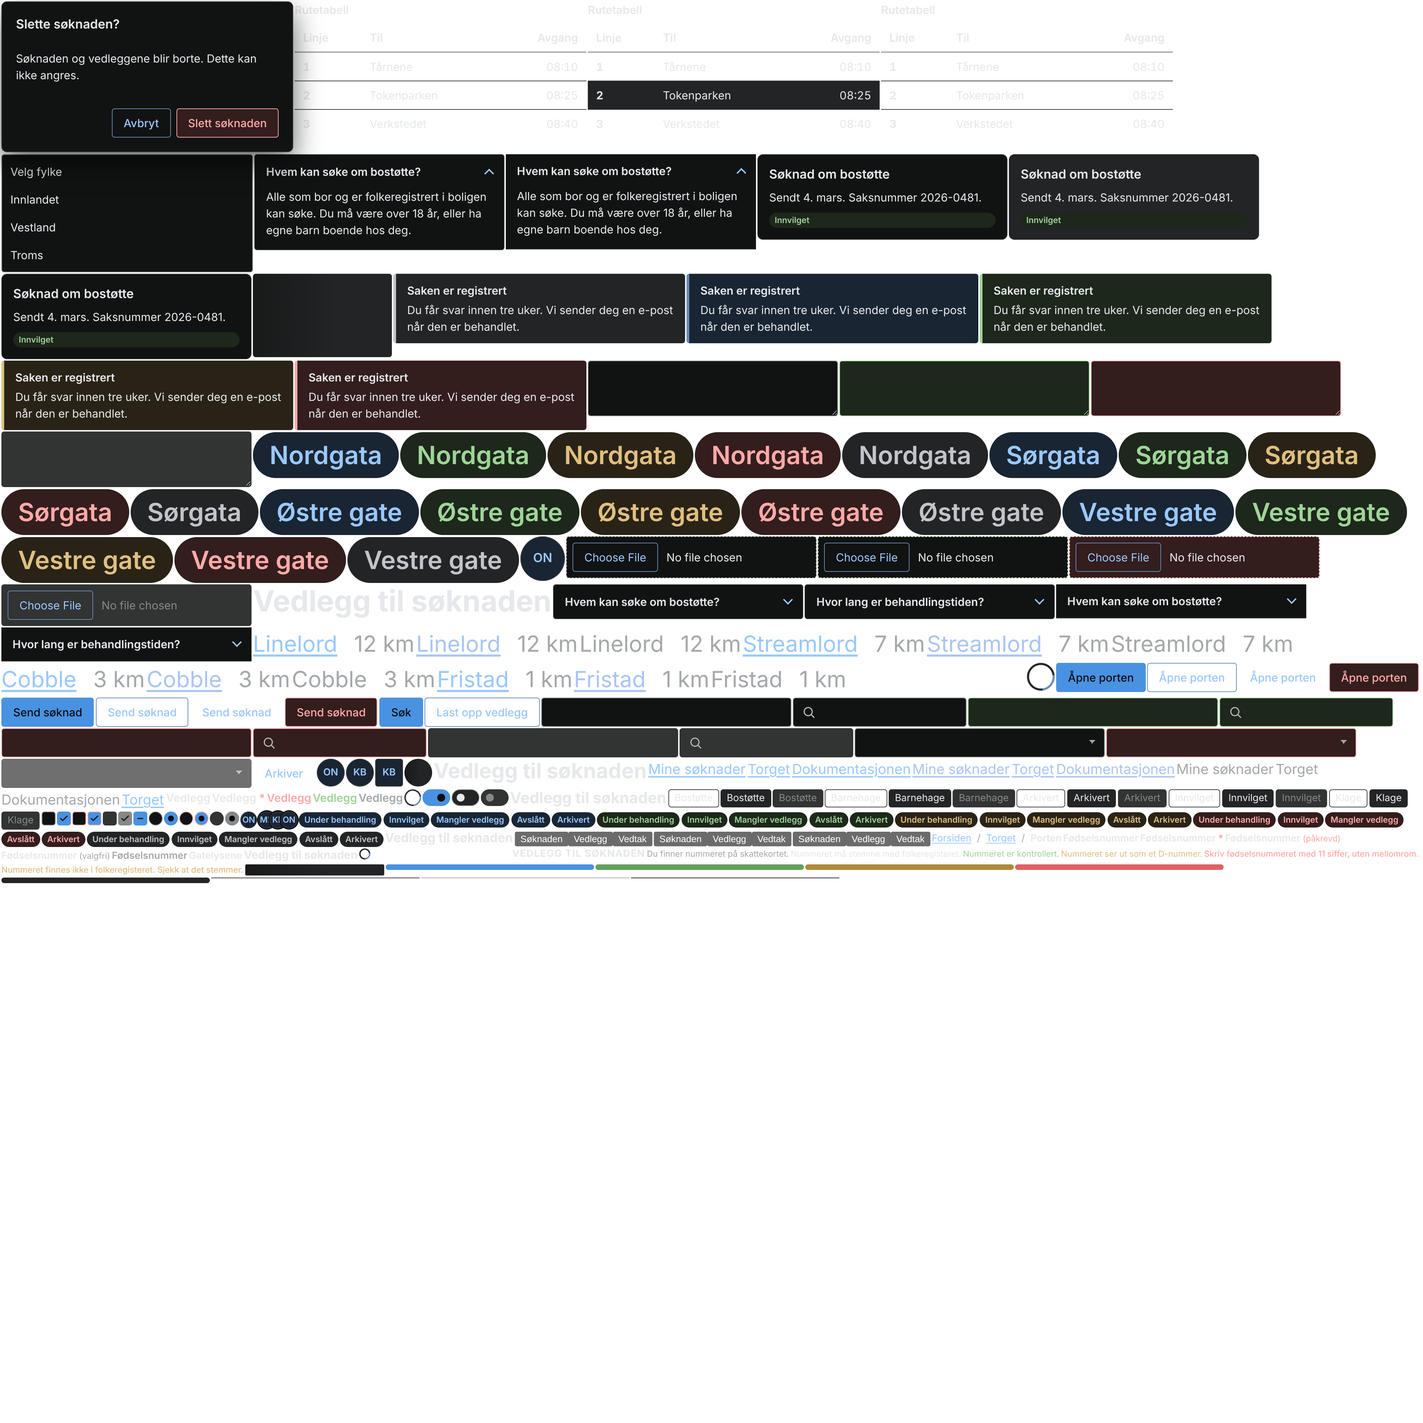
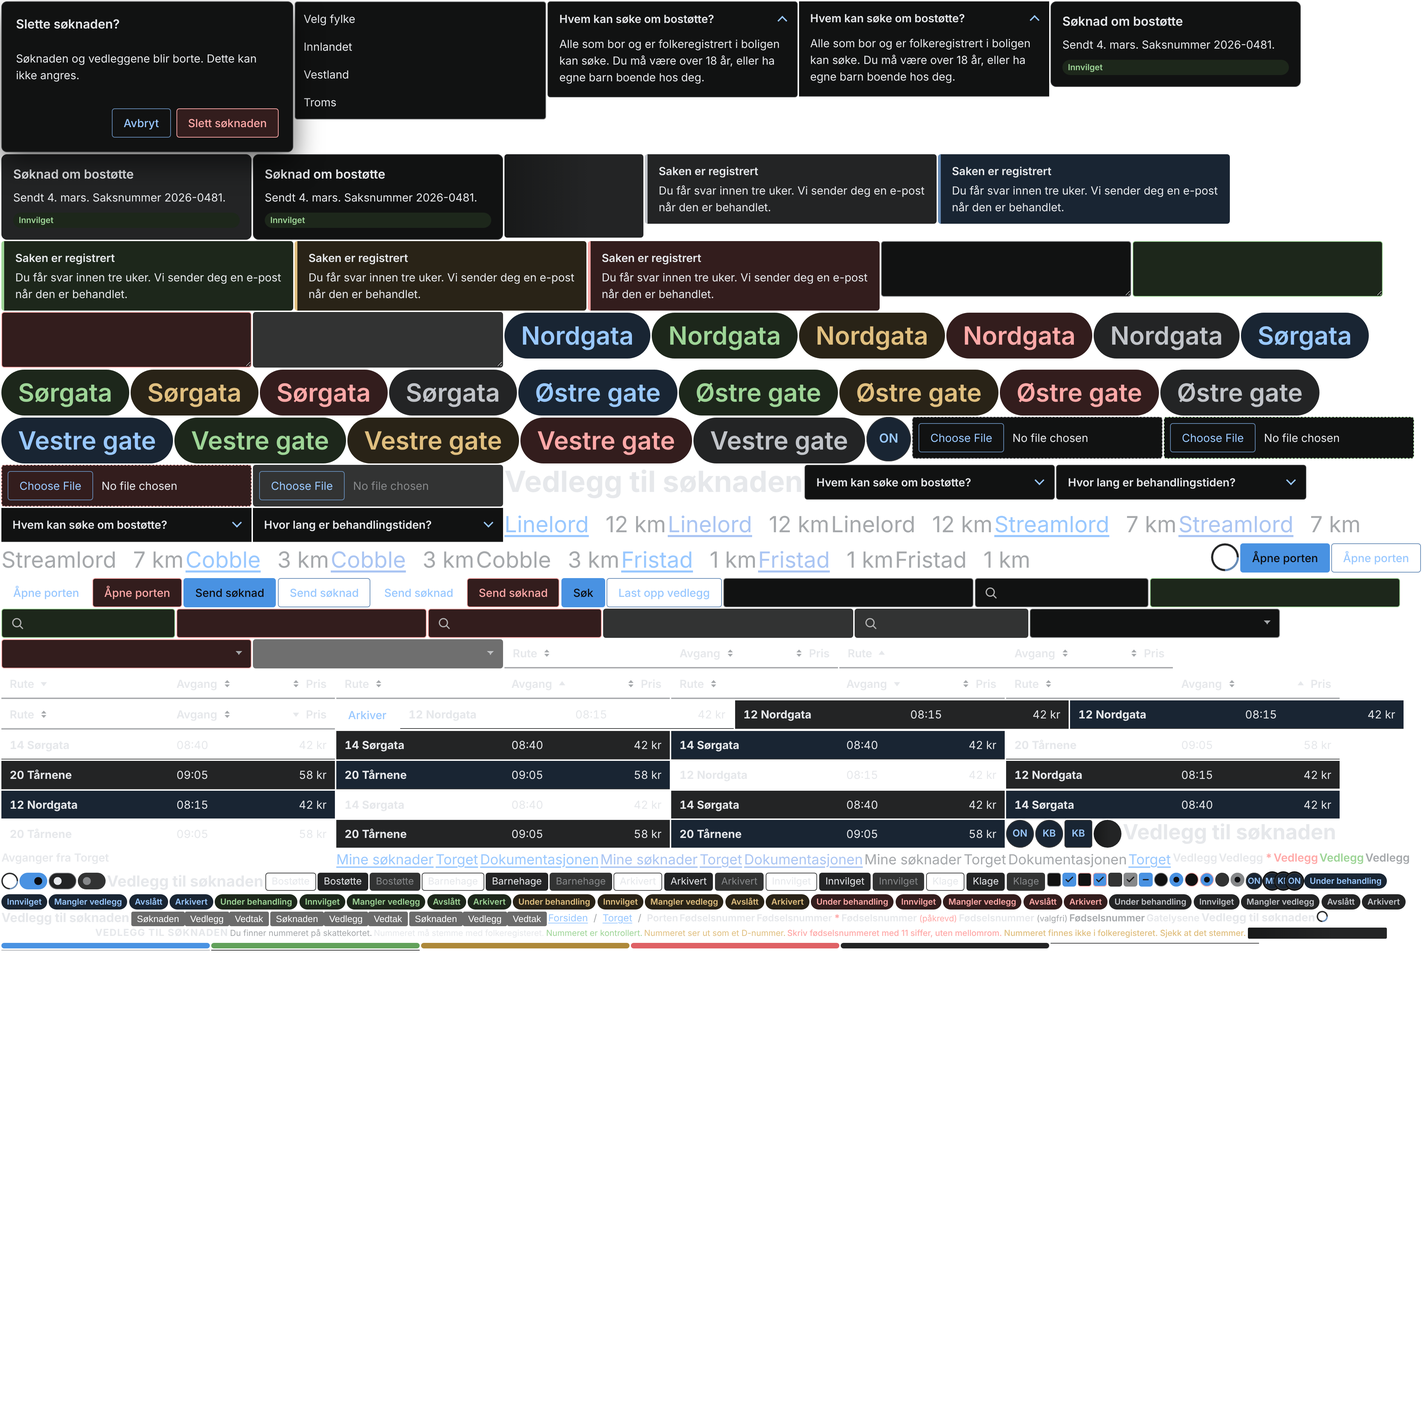
Rutetabellen som sorterbar oppslagsplate ved busskuret, og takrennene som stakk ut av gavlhusene
Tabellen er nå ei egen plate på to stolper øst for busskuret, satt
sammen av ark fra Fristils CSS: bildeteksten, overskriftsraden per
sortering (aria-sort-pilene) og hver rad i vanlig, stripet og
hover-bakgrunn. F på en kolonneoverskrift sorterer stigende og så
synkende, og radene poseres i sortert rekkefølge. Hoverable-varianten
markerer raden du sikter på. Skeleton-huset er flyttet bak skuret så
stillaset ikke går inn i tabellen. Takrennene på gavlhusene lå rotert
feil vei og stakk ut bak husene.

Claude-Session: https://claude.ai/code/session_013pndpdKC7BySq2zRusj7Wv

diff --git a/web/main.js b/web/main.js
@@ -116,7 +116,7 @@ const VARIANTS = {
   table: [
     { name: "default", note: "Standard." },
     { name: "striped", note: 'data-variant="striped"' },
-    { name: "hoverable", note: "data-hoverable, vist med raden under musa markert." },
+    { name: "hoverable", note: "data-hoverable, vist med raden du sikter på markert." },
   ],
   link: [
     { name: "default", note: "Standard." },

diff --git a/src/domain/installations/table.rs b/src/domain/installations/table.rs
@@ -1,28 +1,69 @@
-//! `.fs-table`: rutetabellen i busskuret ved Østre gate. R bytter variant
-//! (vanlig, stripet, hoverable med raden under musa markert).
+//! `.fs-table`: rutetabellen på oppslagsplata ved busskuret ved Østre
+//! gate. Tabellen er satt sammen av ark fra Fristils CSS: bildeteksten,
+//! overskriftsraden (ett ark per sortering, med pila fra `aria-sort`) og
+//! radene (ett ark per rad og bakgrunn). F på en kolonneoverskrift
+//! sorterer stigende, F igjen synkende; radene flytter seg etter. R bytter
+//! variant (vanlig, stripet, hoverable med raden du sikter på markert).
 
 use super::signs::{self, Box2};
-use super::{Component, Env, Installation, PX};
-use crate::domain::city::{at, Builder};
-use crate::domain::geometry::{flag, Mat, Mesh};
+use super::{Action, Component, Env, Installation, PX};
+use crate::domain::city::{at, Builder, IRON, OAK};
+use crate::domain::geometry::{Layer, Mat, Mesh};
 use crate::domain::palette::slot;
-use crate::domain::scene::PALETTE;
-use crate::domain::tokens::Tokens;
 use glam::{Affine3A, Vec3};
 
 pub const VARIANTS: [&str; 3] = ["default", "striped", "hoverable"];
 
-/// Busskuret står i (46, -4.6) og vender mot nord; bakveggen er 1,6 m inn.
-const SHELTER: Vec3 = Vec3::new(46.0, 0.0, -4.6);
-const ROWS: [[&str; 3]; 4] = [["Rute", "Avgang", "Pris"], ["12 Nordgata", "08:15", "42 kr"], ["14 Sørgata", "08:40", "42 kr"], ["20 Tårnene", "09:05", "58 kr"]];
-const COLS: [f32; 3] = [112.0, 72.0, 72.0];
-const ROW_H: f32 = 24.0 + 16.0;
+/// Oppslagsplata står øst for busskuret (46, −4.6) og vender mot nord.
+const BOARD: Vec3 = Vec3::new(51.6, 0.0, -4.6);
+/// Radene: rutenummer, avgang i minutter og pris, til sorteringen.
+const ROWS: [(u32, u32, u32); 3] = [(12, 8 * 60 + 15, 42), (14, 8 * 60 + 40, 42), (20, 9 * 60 + 5, 58)];
+const COLS: [f32; 3] = [240.0, 120.0, 120.0];
+const W: f32 = 480.0;
+const BG: [&str; 3] = ["plain", "striped", "hover"];
 
 #[derive(Default)]
 pub struct Table {
     variant: usize,
-    stripes: [usize; 2],
-    hover: usize,
+    /// Sortert etter kolonne, stigende eller synkende.
+    sort: Option<(usize, bool)>,
+    /// Overskriftsraden per sortering: ingen, så (kolonne, stigende/synkende).
+    heads: [usize; 7],
+    /// Usynlige props du kan sikte på: én per kolonneoverskrift, én per rad.
+    head_cols: [usize; 3],
+    row_targets: [usize; 3],
+    /// Radene: [rad][bakgrunn][uten/med kantlinje under].
+    rows: [[[usize; 2]; 3]; 3],
+    /// Overkanten av radene (px fra platas sentrum).
+    rows_top: f32,
+    row_h: f32,
+    head_h: f32,
+}
+
+impl Table {
+    /// Rekkefølgen radene vises i.
+    fn order(&self) -> [usize; 3] {
+        let mut idx = [0usize, 1, 2];
+        if let Some((col, asc)) = self.sort {
+            let key = |i: usize| match col {
+                0 => ROWS[i].0,
+                1 => ROWS[i].1,
+                _ => ROWS[i].2,
+            };
+            idx.sort_by_key(|i| key(*i));
+            if !asc {
+                idx.reverse();
+            }
+        }
+        idx
+    }
+
+    fn head_index(&self) -> usize {
+        match self.sort {
+            None => 0,
+            Some((c, asc)) => 1 + c * 2 + usize::from(!asc),
+        }
+    }
 }
 
 impl Installation for Table {
@@ -38,66 +79,106 @@ impl Installation for Table {
     fn set_variant(&mut self, i: usize) {
         self.variant = i % VARIANTS.len();
     }
-
-    fn build(&mut self, b: &mut Builder) {
-        let p = b.on_ground(SHELTER);
-        let t = at(p, 0.0);
-        let w: f32 = COLS.iter().sum();
-        let caption_h = 24.0 + 8.0;
-        let h = caption_h + ROW_H * ROWS.len() as f32 + 2.0;
-        // Plata på bakveggen, i canvas-fargen, som arket tabellen står på.
-        let rest = t * Affine3A::from_translation(Vec3::new(0.0, 1.55, -1.6 + 0.04));
-        let mut m = Mesh::default();
-        signs::boxed(&mut m, Vec3::ZERO, &Box2 { w: w + 24.0, h: h + 24.0, radius: 4.0, fill: slot::NEUTRAL_CANVAS, border: Some(slot::NEUTRAL_BORDER_SUBTLE), depth: 0.03 });
-        let left = -w * 0.5;
-        let top = h * 0.5;
-        let z = 0.03;
-        signs::paragraph(&mut m, b.font, &["Avganger fra Torget"], left, top, 16.0, 1.5, z, slot::NEUTRAL_TEXT_STRONG);
-        let line = |m: &mut Mesh, y: f32, px: f32, s: u8| {
-            m.cuboid(&Affine3A::from_translation(Vec3::new(0.0, y * PX, z - 0.004)), Vec3::new(w * PX, px * PX, 0.008), &Mat::plain(0xffffff, 0.5).slot(s).flags(flag::NO_DIRT | flag::NO_WEATHER));
-        };
-        for (r, row) in ROWS.iter().enumerate() {
-            let row_top = top - caption_h - ROW_H * r as f32;
-            let mut x = left;
-            for (c, cell) in row.iter().enumerate() {
-                let end = c == 2;
-                let cx = if end { x + COLS[c] - 12.0 - signs::width(b.font, cell, 16.0) / PX } else { x + 12.0 };
-                signs::paragraph(&mut m, b.font, &[cell], cx, row_top - 8.0, 16.0, 1.5, z, slot::NEUTRAL_TEXT_STRONG);
-                x += COLS[c];
-            }
-            // Kantlinje under: 2 px sterk under overskriften, 1 px svak ellers,
-            // ingen under siste rad.
-            if r == 0 {
-                line(&mut m, row_top - ROW_H + 1.0, 2.0, slot::NEUTRAL_BORDER);
-            } else if r + 1 < ROWS.len() {
-                line(&mut m, row_top - ROW_H + 0.5, 1.0, slot::NEUTRAL_BORDER_SUBTLE);
-            }
-        }
-        let _ = b.prop("table", m, rest, Some((Vec3::ZERO, Vec3::new((w + 24.0) * PX * 0.5, (h + 24.0) * PX * 0.5, 0.05))));
-        // Stripene (partallsrader) og hover-raden som egne props bak teksten.
-        for (k, r) in [2usize].iter().enumerate() {
-            let row_top = top - caption_h - ROW_H * *r as f32;
-            let mut s = Mesh::default();
-            s.cuboid(&Affine3A::from_translation(Vec3::new(0.0, (row_top - ROW_H * 0.5) * PX, 0.0)), Vec3::new(w * PX, ROW_H * PX, 0.006), &Mat::plain(0xffffff, 0.5).slot(slot::NEUTRAL_SURFACE).flags(flag::NO_DIRT | flag::NO_WEATHER));
-            self.stripes[k] = b.prop("table_stripe", s, rest * Affine3A::from_translation(Vec3::Z * 0.018), None);
-        }
-        self.stripes[1] = self.stripes[0];
-        let row_top = top - caption_h - ROW_H;
-        let mut hv = Mesh::default();
-        hv.cuboid(&Affine3A::from_translation(Vec3::new(0.0, (row_top - ROW_H * 0.5) * PX, 0.0)), Vec3::new(w * PX, ROW_H * PX, 0.006), &Mat::plain(0xffffff, 0.5).slot(slot::ACCENT_SURFACE).flags(flag::NO_DIRT | flag::NO_WEATHER));
-        self.hover = b.prop("table_hover", hv, rest * Affine3A::from_translation(Vec3::Z * 0.018), None);
+    fn usable(&self) -> bool {
+        true
     }
 
-    fn pose(&self, prop: usize, rest: Affine3A, _env: &Env) -> (Affine3A, [f32; 4]) {
-        let hidden = Affine3A::from_scale(Vec3::splat(0.0001));
-        if prop == self.stripes[0] {
-            return (if self.variant == 1 { rest } else { rest * hidden }, [0.0; 4]);
+    fn build(&mut self, b: &mut Builder) {
+        let p = b.on_ground(BOARD);
+        let t = at(p, 0.0);
+        // Målene fra arkene.
+        let cap = b.sheets.sheet("table-caption");
+        let head = b.sheets.sheet("table-head:none");
+        let row = b.sheets.sheet("table-row:plain:0:mid");
+        self.head_h = head.h;
+        self.row_h = row.h;
+        let h = cap.h + head.h + row.h * 3.0;
+        let top = h * 0.5;
+        self.rows_top = top - cap.h - head.h;
+        // Plata: to stolper i jern, ei plate i eik med kant, og arket i canvas.
+        let (bw, bh) = ((W + 48.0) * PX, (h + 48.0) * PX);
+        let m = &mut b.mesh;
+        for dx in [-bw * 0.5 + 0.2, bw * 0.5 - 0.2] {
+            m.cylinder(&(t * Affine3A::from_translation(Vec3::new(dx, -0.3, -0.06))), 0.05, 0.05, 1.0 + bh + 0.3, 10, &IRON, false);
         }
-        if prop == self.hover {
-            return (if self.variant == 2 { rest } else { rest * hidden }, [0.0; 4]);
+        let board = Mat::tex(Layer::Oak, 0xffffff).tint(Vec3::new(0.45, 0.4, 0.33));
+        let center_y = 1.0 + bh * 0.5;
+        m.cuboid_ao(&(t * Affine3A::from_translation(Vec3::new(0.0, center_y, 0.0))), Vec3::new(bw + 0.1, bh + 0.1, 0.06), &board, 1.0);
+        m.cuboid_ao(&(t * Affine3A::from_translation(Vec3::new(0.0, 1.0 + bh + 0.08, 0.0))), Vec3::new(bw + 0.3, 0.1, 0.2), &OAK, 1.0);
+        b.solid_box(p + Vec3::new(0.0, center_y, 0.0), Vec3::new(bw + 0.1, bh + 0.1, 0.2), 0.0);
+        let rest = t * Affine3A::from_translation(Vec3::new(0.0, center_y, 0.04));
+        let mut sheet = Mesh::default();
+        signs::boxed(&mut sheet, Vec3::ZERO, &Box2 { w: W + 48.0, h: h + 48.0, radius: 4.0, fill: slot::NEUTRAL_CANVAS, border: Some(slot::NEUTRAL_BORDER_SUBTLE), depth: 0.03 });
+        // Bildeteksten står fast.
+        signs::sheet(&mut sheet, b.sheets, "table-caption", Vec3::new(0.0, (top - cap.h * 0.5) * PX, 0.02), 0.01, 0.0, slot::NEUTRAL_CANVAS);
+        sheet.transform(&rest);
+        b.mesh.append(&sheet);
+        // Overskriftsraden, ett ark per sortering.
+        let head_y = top - cap.h - head.h * 0.5;
+        for (k, id) in ["none", "0a", "0d", "1a", "1d", "2a", "2d"].iter().enumerate() {
+            let mut m = Mesh::default();
+            signs::sheet(&mut m, b.sheets, &format!("table-head:{id}"), Vec3::ZERO, 0.01, 0.0, slot::NEUTRAL_CANVAS);
+            self.heads[k] = b.prop("table_head", m, rest * Affine3A::from_translation(Vec3::new(0.0, head_y * PX, 0.02)), None);
+        }
+        // Kolonneoverskriftene du kan sikte på.
+        let mut x = -W * 0.5;
+        for c in 0..3 {
+            let cx = x + COLS[c] * 0.5;
+            self.head_cols[c] = b.prop("table", Mesh::default(), rest * Affine3A::from_translation(Vec3::new(cx * PX, head_y * PX, 0.03)), Some((Vec3::ZERO, Vec3::new(COLS[c] * PX * 0.5, head.h * PX * 0.5, 0.04))));
+            x += COLS[c];
+        }
+        // Radene: alle utgaver oppå hverandre, posert etter sorteringen.
+        for i in 0..3 {
+            for (g, bg) in BG.iter().enumerate() {
+                for (l, last) in ["mid", "last"].iter().enumerate() {
+                    let mut m = Mesh::default();
+                    signs::sheet(&mut m, b.sheets, &format!("table-row:{bg}:{i}:{last}"), Vec3::ZERO, 0.01, 0.0, if *bg == "striped" { slot::NEUTRAL_SURFACE } else { slot::NEUTRAL_CANVAS });
+                    self.rows[i][g][l] = b.prop("table_row", m, rest * Affine3A::from_translation(Vec3::new(0.0, 0.0, 0.02)), None);
+                }
+            }
+            self.row_targets[i] = b.prop("table", Mesh::default(), rest * Affine3A::from_translation(Vec3::Z * 0.03), Some((Vec3::ZERO, Vec3::new(W * PX * 0.5, row.h * PX * 0.5, 0.04))));
+        }
+    }
+
+    fn act(&mut self, action: Action, env: &mut Env) {
+        if action != Action::Use {
+            return;
+        }
+        let Some(c) = self.head_cols.iter().position(|h| Some(*h) == env.aimed_prop) else { return };
+        let asc = !matches!(self.sort, Some((sc, true)) if sc == c);
+        self.sort = Some((c, asc));
+        let name = ["rute", "avgang", "pris"][c];
+        env.toasts.push(format!("Sortert etter {name}, {}", if asc { "stigende" } else { "synkende" }));
+    }
+
+    fn pose(&self, prop: usize, rest: Affine3A, env: &Env) -> (Affine3A, [f32; 4]) {
+        let hidden = Affine3A::from_scale(Vec3::splat(0.0001));
+        if let Some(k) = self.heads.iter().position(|h| *h == prop) {
+            return (if k == self.head_index() { rest } else { rest * hidden }, [0.0; 4]);
+        }
+        let order = self.order();
+        let slot_y = |slot: usize| (self.rows_top - self.row_h * (slot as f32 + 0.5)) * PX;
+        // Raden du sikter på, i hoverable-varianten; ellers den første.
+        let aimed_slot = self.row_targets.iter().position(|r| Some(*r) == env.aimed_prop);
+        for (slot, &i) in order.iter().enumerate() {
+            if prop == self.row_targets[slot] {
+                return (rest * Affine3A::from_translation(Vec3::Y * slot_y(slot)), [0.0; 4]);
+            }
+            for g in 0..3 {
+                for l in 0..2 {
+                    if prop == self.rows[i][g][l] {
+                        let want_g = match self.variant {
+                            1 if slot % 2 == 1 => 1,
+                            2 if aimed_slot.unwrap_or(0) == slot => 2,
+                            _ => 0,
+                        };
+                        let want_l = usize::from(slot == 2);
+                        let shown = g == want_g && l == want_l;
+                        return (if shown { rest * Affine3A::from_translation(Vec3::Y * slot_y(slot)) } else { rest * hidden }, [0.0; 4]);
+                    }
+                }
+            }
         }
         (rest, [0.0; 4])
     }
-
-    fn palette(&self, _tokens: &Tokens, _night: f32, _p: &mut [Vec3; PALETTE]) {}
 }

diff --git a/src/domain/city/house.rs b/src/domain/city/house.rs
@@ -598,7 +598,9 @@ pub fn house(b: &mut Builder, s: &Spec) {
         // Takrenner langs langsidene (x-sidene).
         let eave_y = -overhang * roof_h / (width * 0.5);
         for side in [1.0f32, -1.0] {
-            m.cylinder(&(roof_t * Affine3A::from_rotation_translation(Quat::from_rotation_x(-std::f32::consts::FRAC_PI_2), Vec3::new(side * (width * 0.5 + overhang + 0.06), eave_y - 0.02, -fz - overhang))), 0.07, 0.07, depth + 2.0 * overhang, 8, &IRON, true);
+            // Renna ligger langs takfoten (lokal +z fra bakkanten): rotasjon
+            // +90° om x gjør sylinderens y til +z.
+            m.cylinder(&(roof_t * Affine3A::from_rotation_translation(Quat::from_rotation_x(std::f32::consts::FRAC_PI_2), Vec3::new(side * (width * 0.5 + overhang + 0.06), eave_y - 0.02, -fz - overhang))), 0.07, 0.07, depth + 2.0 * overhang, 8, &IRON, true);
             let px = side * (width * 0.5 + 0.1);
             m.cylinder(&local(Vec3::new(px, 0.1, fz - 0.3)), 0.045, 0.045, plinth + wall_h + eave_y - 0.2, 8, &IRON, false);
         }

diff --git a/src/domain/installations/skeleton.rs b/src/domain/installations/skeleton.rs
@@ -17,8 +17,8 @@ pub struct Skeleton {
     first: [usize; 3],
 }
 
-/// Tomta: nord for Østre gate, øst for tabs-huset, med fasaden mot gata.
-const FRONT: Vec3 = Vec3::new(47.0, 0.0, -6.5);
+/// Tomta: nord for Østre gate bak busskuret, øst for tabs-huset, med fasaden mot gata.
+const FRONT: Vec3 = Vec3::new(47.0, 0.0, -14.0);
 
 impl Installation for Skeleton {
     fn component(&self) -> Component {

diff --git a/README.md b/README.md
@@ -2,7 +2,7 @@
 
 Dokumentasjonen til [Fristil](https://github.com/MarkusAugust/fristil), som en by du kan gå rundt i.
 
-Fristad er en 3D-verden i nettleseren der komponentene i designsystemet står som ting i byen: knappen ved porten er `.fs-button`, oppslaget på veggen er `.fs-alert`, bryteren for gatelysene er `.fs-switch`, framdriftsstolpen over porten er `.fs-progress`, merkelappene og statusmerkene på oppslagstavla er `.fs-tag` og `.fs-badge`, ringen på masta er `.fs-spinner`, messingplatene i brosteinen er `.fs-breadcrumbs`, huset under bygging er `.fs-skeleton` og masta ved torget er `.fs-connection-status`. Telefonkiosken er `.fs-dialog`, huset med tre dører ved Østre gate er `.fs-tabs`, infotavla og oppslagsskapet ved Vestre gate er `.fs-card` og `.fs-accordion`, søknadskontoret har skjemafeltene (`.fs-input`, `.fs-select`, `.fs-checkbox`, `.fs-radio`, `.fs-textarea`) med `.fs-tooltip`, `.fs-avatar` og `.fs-divider` rundt seg, rutetabellen i busskuret er `.fs-table` og veiviseren på torget er `.fs-link`. Vedleggsarket på baksiden av søknadskontoret har `.fs-heading`, `.fs-label`, `.fs-help-text`, `.fs-error-text`, `.fs-fieldset`, `.fs-file-upload` og `.fs-search`. Lenker, brødsmuler og «Torget»-skiltene utenfor torget tar deg dit med flytur: løftet over hustakene, fløyet bort og dalt ned i fallskjerm. Sikt på en av dem og trykk **E**, så åpnes den ekte komponenten med eksempel, varianter, kode og lenke til dokumentasjonssiden. **R** bytter variant, også i byen. **F** bruker den: knappen åpner porten, bryteren tenner gatelysene, og skjemaet på søknadskontoret kan fylles ut med tastaturet og sendes med validering. **T** bytter mellom lyst og mørkt tema, som i Fristad er dag og natt, og **V** bytter vær.
+Fristad er en 3D-verden i nettleseren der komponentene i designsystemet står som ting i byen: knappen ved porten er `.fs-button`, oppslaget på veggen er `.fs-alert`, bryteren for gatelysene er `.fs-switch`, framdriftsstolpen over porten er `.fs-progress`, merkelappene og statusmerkene på oppslagstavla er `.fs-tag` og `.fs-badge`, ringen på masta er `.fs-spinner`, messingplatene i brosteinen er `.fs-breadcrumbs`, huset under bygging er `.fs-skeleton` og masta ved torget er `.fs-connection-status`. Telefonkiosken er `.fs-dialog`, huset med tre dører ved Østre gate er `.fs-tabs`, infotavla og oppslagsskapet ved Vestre gate er `.fs-card` og `.fs-accordion`, søknadskontoret har skjemafeltene (`.fs-input`, `.fs-select`, `.fs-checkbox`, `.fs-radio`, `.fs-textarea`) med `.fs-tooltip`, `.fs-avatar` og `.fs-divider` rundt seg, rutetabellen på oppslagsplata ved busskuret er `.fs-table` (sorter med F på kolonnene) og veiviseren på torget er `.fs-link`. Vedleggsarket på baksiden av søknadskontoret har `.fs-heading`, `.fs-label`, `.fs-help-text`, `.fs-error-text`, `.fs-fieldset`, `.fs-file-upload` og `.fs-search`. Lenker, brødsmuler og «Torget»-skiltene utenfor torget tar deg dit med flytur: løftet over hustakene, fløyet bort og dalt ned i fallskjerm. Sikt på en av dem og trykk **E**, så åpnes den ekte komponenten med eksempel, varianter, kode og lenke til dokumentasjonssiden. **R** bytter variant, også i byen. **F** bruker den: knappen åpner porten, bryteren tenner gatelysene, og skjemaet på søknadskontoret kan fylles ut med tastaturet og sendes med validering. **T** bytter mellom lyst og mørkt tema, som i Fristad er dag og natt, og **V** bytter vær.
 
 Komponentene i byen er rendret fra Fristils egen HTML og CSS, så de ser ut akkurat som på en nettside, bare med litt dybde: hver variant og tilstand er sitt eget ark, og velger du en variant i panelet, bytter alle forekomstene i byen. Gateskiltene i gatemunningene er `.fs-badge`, veiviserne til Linelord, Cobble og Streamlord der gatene går over i grusveier er `.fs-link`.
 

diff --git a/CLAUDE.md b/CLAUDE.md
@@ -53,7 +53,7 @@ Fristad er dokumentasjonen til designsystemet [Fristil](https://github.com/Marku
 - Egen motor i Rust + wgpu (WebGPU, WebGL2 som reserve) + Rapier, for maks ytelse og realisme.
 - Stil: stilisert realisme, nordisk arkitektur. Realismen kommer fra geometrisk detalj (fasadegrammatikken i `city/house.rs`), bakte PBR-teksturer med normalkart, kaskadeskygger, SSAO, TAA, volumetrisk tåke og vær. Modellfiler (glTF) er greit.
 - Lyst tema = dag, mørkt tema = natt. V bytter vær; `connection-status` gir uvær når nettleseren er offline.
-- Komponentene skal ikke stå på sokler: hver komponent får en metafor i byen (knappen ved porten, oppslaget på veggen, bryteren for gatelysene, framdriftsstolpen over porten, tagger og badges på oppslagstavla, spinneren på masta, brødsmulene i brosteinen, skeleton-huset under bygging, masta for forbindelsen, dialogen i telefonkiosken på torget, tabs som huset med tre dører ved Østre gate, kortene på infotavla og accordion som oppslagsskapet ved Vestre gate, skjemafeltene på søknadskontoret sør for Østre gate med tooltip-stolpen, avatarene og divider-oppslaget på sideveggene, tabellen som rutetabell i busskuret, lenkene som veiviseren på torget). `Env.aimed_prop` sier hvilken prop spilleren sikter på (hover).
+- Komponentene skal ikke stå på sokler: hver komponent får en metafor i byen (knappen ved porten, oppslaget på veggen, bryteren for gatelysene, framdriftsstolpen over porten, tagger og badges på oppslagstavla, spinneren på masta, brødsmulene i brosteinen, skeleton-huset under bygging, masta for forbindelsen, dialogen i telefonkiosken på torget, tabs som huset med tre dører ved Østre gate, kortene på infotavla og accordion som oppslagsskapet ved Vestre gate, skjemafeltene på søknadskontoret sør for Østre gate med tooltip-stolpen, avatarene og divider-oppslaget på sideveggene, tabellen som rutetabell på oppslagsplata ved busskuret (F på en kolonneoverskrift sorterer, radene er ark som poseres i sortert rekkefølge), lenkene som veiviseren på torget). `Env.aimed_prop` sier hvilken prop spilleren sikter på (hover).
 - Hosting: Netlify for den statiske byen. Railway er aktuelt senere for en flerspillerserver.
 
 ## Status (7. oktober 2026)
